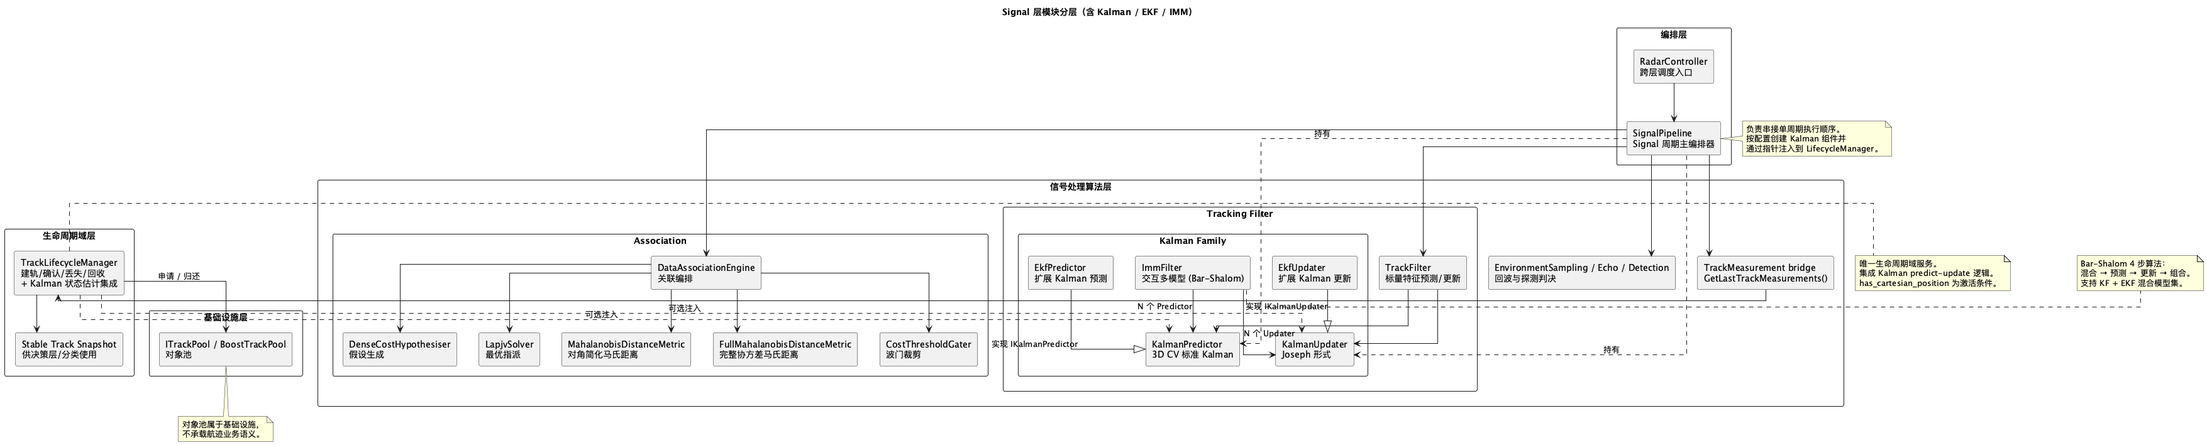
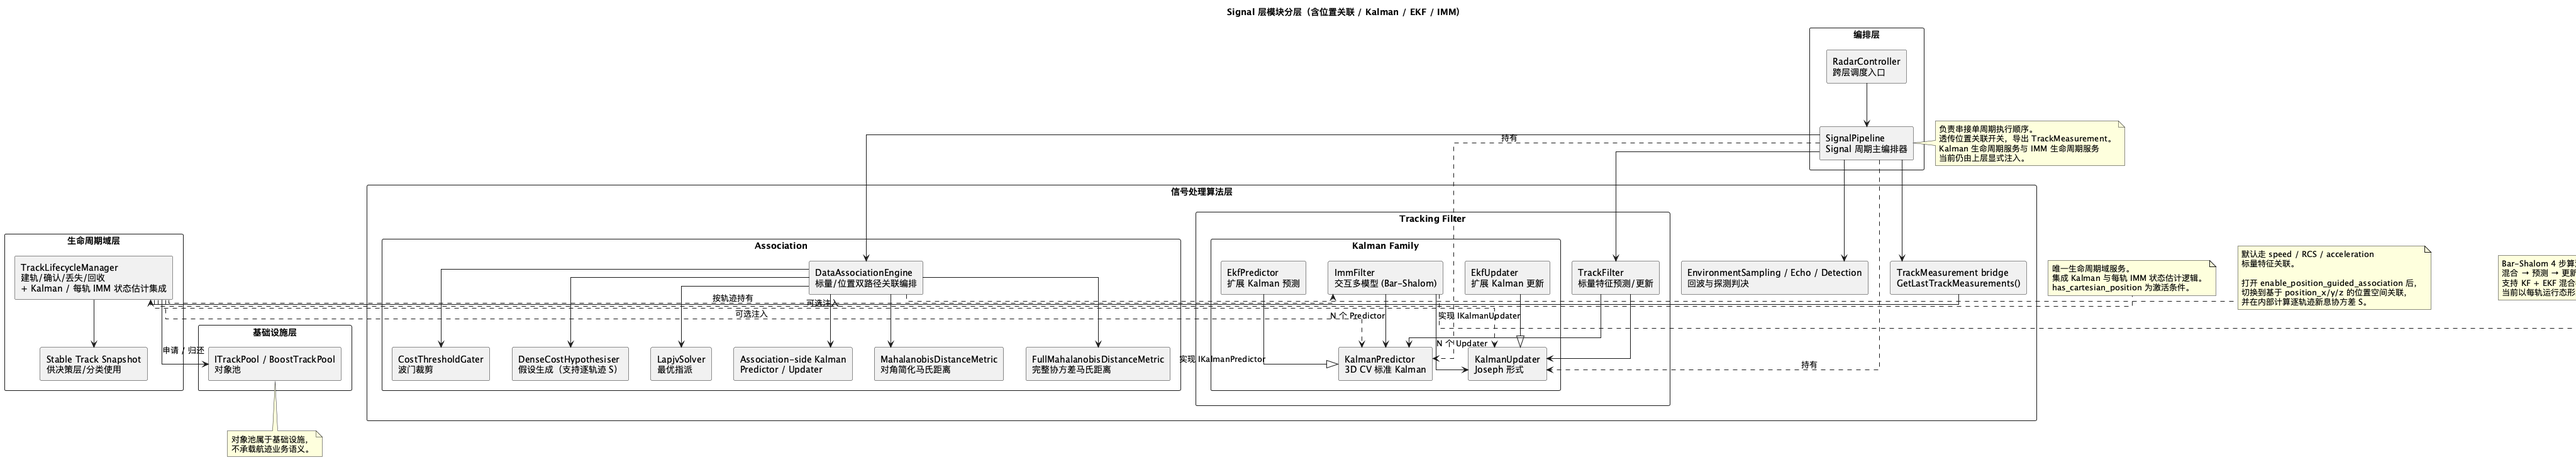
docs(architecture): 更新信号层位置关联与 IMM 集成文档
架构说明：
- signal-architecture.md 补充标量特征关联与位置空间关联双路径说明，明确 FullMahalanobisDistanceMetric 已支持逐轨迹新息协方差 S 联动
- 更新 Kalman / IMM 集成章节，说明 TrackLifecycleManager 已支持每轨 ImmFilter 运行态以及命中、失配、回收路径下的行为
- 同步测试覆盖统计、当前实现边界与待统一事项，区分“已实现能力”和“尚待收敛的数据流”

目录与图示：
- README.md 新增当前实现状态摘要，并补充位置关联、逐轨迹 S 注入点与每轨 IMM 生命周期入口说明
- 更新 signal-module-layering.puml，补充 Association-side Kalman、位置关联路径以及 TrackLifecycleManager 每轨 IMM 持有关系
- 更新 signal-processing-flow.puml，补充位置空间关联分支、TrackMeasurement 桥接语义和 LifecycleManager 内部 Kalman / IMM 状态估计流程

文档边界：
- 记录当前位置空间关联仍由 DataAssociationEngine 内部维护关联侧高斯状态
- 记录 TrackLifecycleManager 的 IMM 生命周期服务当前仍需由上层显式创建/注入
- 保留杂波图与动态门限环境适配为后续环境层协作项

diff --git a/doc/architecture/signal/signal-architecture.md b/doc/architecture/signal/signal-architecture.md
@@ -4,6 +4,13 @@
 
 Signal 层是机载雷达仿真系统的**信号处理核心**，负责从原始目标特征出发，完成完整的 **探测 → 关联 → 滤波 → 航迹管理** 处理链路。
 
+截至当前版本，Signal 层已经同时支持：
+
+- 基于 `[speed, rcs, acceleration]` 的**标量特征关联路径**（兼容旧实现）
+- 基于 `TargetFeature.position_x/y/z` 的**位置空间关联路径**（显式开关启用）
+- `TrackLifecycleManager` 内部的**单模型 Kalman**与**每轨 IMM 多模型运行态**
+- `FullMahalanobisDistanceMetric` 对轨迹级新息协方差 $S$ 的直接消费
+
 Signal 层遵循三条关键设计原则：
 
 1. **控制面与数据面分离** — 编排逻辑与算法实现通过接口隔离，Pipeline 节点只传递上下文、不直接耦合底层算法。
@@ -21,7 +28,7 @@ src/airborne_radar/signal/
 │   ├── Hypothesiser.h/.cpp         #   └─ DenseCostHypothesiser（假设生成）
 │   ├── AssignmentSolver.h          #   └─ IAssignmentSolver 接口
 │   ├── LapjvSolver.h/.cpp          #   └─ LapjvSolver（Jonker-Volgenant 最优指派）
-│   └── DataAssociation.h/.cpp      #   └─ DataAssociationEngine（关联编排器）
+│   └── DataAssociation.h/.cpp      #   └─ DataAssociationEngine（标量/位置双路径关联编排器）
 │
 ├── detection/                      # [信号检测层]
 │   ├── RadarEquations.h/.cpp       #   ├─ 雷达物理方程纯函数库（回波功率、噪声底、积累增益、测量精度、检测概率）
@@ -44,7 +51,7 @@ src/airborne_radar/signal/
     │                               #   └─ LinearCv / LinearPosition 默认模型
     ├── ImmFilter.h/.cpp            #   └─ ImmFilter（交互多模型滤波器，Bar-Shalom）
     ├── TrackFilter.h/.cpp          #   └─ TrackFilter（标量特征预测/更新编排）
-    ├── TrackLifecycleManager.h/.cpp #   └─ 轨迹生命周期状态机（Kalman 集成）
+    ├── TrackLifecycleManager.h/.cpp #   └─ 轨迹生命周期状态机（Kalman / 每轨 IMM 集成）
     ├── BoostTrackPool.h/.cpp       #   └─ 基于 Boost.Pool 的对象池
     └── ITrackPool.h                #   └─ 对象池抽象接口
 
@@ -55,7 +62,7 @@ include/1q/airborne_radar/signal/
     ├── GaussianTrackState.h         # 高斯状态类型定义（公共 API）
     ├── ITrackLifecycleManager.h     # 生命周期管理器接口
     ├── ITrackPool.h                 # 对象池接口
-    ├── TrackLifecycleManager.h      # 生命周期管理器（含 Kalman 注入）
+    ├── TrackLifecycleManager.h      # 生命周期管理器（含 Kalman / IMM 注入）
     └── TrackLifecycleTypes.h        # 轨迹数据类型定义
 ```
 
@@ -69,14 +76,15 @@ flowchart TD
     ECHO["回波计算<br/>SignalDetector"]
     DETECT["信号检测<br/>CFAR 探测判决"]
     ASSOC["数据关联<br/>DataAssociationEngine"]
-    FILTER["跟踪滤波<br/>TrackFilter + KalmanPredictor/Updater"]
+    ASSOC_DETAIL["可选：位置空间关联<br/>预测位置 + 量测位置 + S"]
+    FILTER["跟踪滤波<br/>TrackFilter（标量特征）"]
     MEAS["TrackMeasurement 导出<br/>GetLastTrackMeasurements()"]
     LIFECYCLE["轨迹管理<br/>TrackLifecycleManager"]
-    KALMAN["Kalman 状态估计<br/>Predict → Update → 写回"]
+    KFIMM["状态估计<br/>Kalman / 每轨 IMM"]
     SNAPSHOT["稳定航迹快照<br/>供决策层 / 目标分类"]
 
-    ENV --> ECHO --> DETECT --> ASSOC --> FILTER --> MEAS --> LIFECYCLE
-    LIFECYCLE --> KALMAN --> SNAPSHOT
+    ENV --> ECHO --> DETECT --> ASSOC --> FILTER --> MEAS --> LIFECYCLE --> KFIMM --> SNAPSHOT
+    ASSOC -.-> ASSOC_DETAIL
     LIFECYCLE -->|"申请/归还"| POOL["BoostTrackPool"]
 ```
 
@@ -89,7 +97,7 @@ flowchart TD
 EnvironmentSamplingStage
   → EchoEstimationStage          # 线性占位符公式
     → DetectionStage              # 简单 margin 比较
-      → AssociationStage
+            → AssociationStage          # 可选位置空间关联
         → TrackingFilterStage
 ```
 
@@ -97,11 +105,13 @@ EnvironmentSamplingStage
 ```
 EnvironmentSamplingStage
   → PhysicsEchoEstimationStage   # 雷达方程 + CFAR 检测概率 + 蒙特卡洛判决
-    → AssociationStage
+        → AssociationStage           # 可选位置空间关联
       → TrackingFilterStage
 ```
 
 每个 Stage 实现 `IChainProcessor<SignalCycleContext>` 接口，通过 `SignalCycleContext` 共享上下文数据。
+
+当前 `AssociationStage` 仍然是 Pipeline 链路中的单一节点；当打开 `enable_position_guided_association` 时，**位置预测与轨迹级新息协方差 $S$ 的生成发生在 `DataAssociationEngine` 内部**，而不是新增一个独立的前置 Stage。
 
 ## 4. 核心算法详解
 
@@ -148,23 +158,49 @@ flowchart LR
 ```mermaid
 flowchart LR
     subgraph DataAssociationEngine
+        MODE["模式选择<br/>标量特征 / 位置空间"]
+        PRED["内部预测<br/>KalmanPredictor + KalmanUpdater"]
         M["DistanceMetric<br/>马氏距离计算"] --> G["Gater<br/>波门裁剪"]
         G --> H["Hypothesiser<br/>候选假设生成"]
         H --> S["LapjvSolver<br/>最优指派"]
     end
-    INPUT["量测 + 历史轨迹签名"] --> M
+    INPUT["量测 + 历史轨迹签名"] --> MODE --> M
+    MODE -. 位置路径 .-> PRED -. 输出 ẑ / S .-> H
     S --> OUTPUT["AssociationResult"]
 ```
+
+`DataAssociationEngine` 当前有两条可切换路径：
+
+1. **标量特征路径（默认）**
+   - 输入特征：`[speed, rcs, acceleration]`
+   - 距离度量：`MahalanobisDistanceMetric`
+   - 作用：保持旧行为与现有调用方兼容
+
+2. **位置空间路径（`enable_position_guided_association = true`）**
+   - 量测来源：`TargetFeature.position_x / position_y / position_z`
+   - 历史轨迹状态：`TrackSignature.position + gaussian_state`
+   - 距离度量：`FullMahalanobisDistanceMetric`
+   - 协方差来源：内部 `KalmanPredictor` 预测得到 $P$，随后按
+     $$S = HPH^T + R$$
+     计算轨迹级新息协方差并传递给 `DenseCostHypothesiser`
 
 | 组件 | 算法 | 复杂度 |
 |------|------|--------|
 | `MahalanobisDistanceMetric` | d² = Σ(Δfᵢ/σᵢ)² （对角简化） | O(D) |
 | `FullMahalanobisDistanceMetric` | d² = Δzᵀ S⁻¹ Δz （LLT 分解） | O(D³) |
 | `CostThresholdGater` | 代价 > 阈值则裁剪 | O(MN) |
-| `DenseCostHypothesiser` | 生成所有通过波门的 (轨迹, 量测) 对 | O(MN) |
+| `DenseCostHypothesiser` | 生成所有通过波门的 (轨迹, 量测) 对；位置路径支持逐轨迹 S 注入 | O(MN) |
 | `LapjvSolver` | Jonker-Volgenant 线性指派 | O(N³) |
 
-### 4.2 状态估计滤波器
+#### 4.2.1 当前位置空间关联的实现边界
+
+当前版本已经完成 `FullMahalanobisDistanceMetric` 与轨迹级 $S$ 的联动，但需要注意：
+
+- 关联域维护的是**关联侧内部高斯状态**，尚未与 `TrackLifecycleManager` 的后验状态完全统一成单一真源
+- `SignalPipeline` 只有在输入 `TargetFeature` 已携带 `position_x/y/z` 时，才会导出 `has_cartesian_position = true` 的 `TrackMeasurement`
+- 因此当前位置空间关联已经可用，但仍属于**已实现的前向能力 + 待进一步统一的数据流**
+
+### 4.3 状态估计滤波器
 
 Signal 层提供三级滤波器，复杂度递增：
 
@@ -221,6 +257,14 @@ flowchart TD
 
 通过依赖注入接收 N 个 `IKalmanPredictor*` / `IKalmanUpdater*`，支持 KF + EKF 混合模型集。
 
+当前 `TrackLifecycleManager` 已支持**每轨一份 `ImmFilter` 运行态**：
+
+- 以 `association_key` 为键维护 `imm_filters_by_key_`
+- 新轨时初始化对应模型集合与初始权重
+- 命中时执行 `ImmFilter::Process()`
+- 失配时执行 `ImmFilter::Predict()`
+- 回收时同步清理该轨迹绑定的 IMM 运行态
+
 ## 5. 与 Stone Soup 的对照
 
 ### 5.1 概念映射
@@ -239,7 +283,7 @@ flowchart TD
 | `ExtendedKalmanUpdater` | `EkfUpdater` | 同上 |
 | `TransitionModel.jacobian()` | `ITransitionModel::Jacobian()` | 纯虚函数 |
 | `MeasurementModel.jacobian()` | `IMeasurementModel::Jacobian()` | 纯虚函数 |
-| `Tracker` (multi-model) | `ImmFilter` | Bar-Shalom 4 步算法 |
+| `Tracker` (multi-model) | `ImmFilter` + `TrackLifecycleManager` | `ImmFilter` 提供每轨多模型估计，Lifecycle 管理状态机与对象生命周期 |
 | `Initiator / Deleter` | `TrackLifecycleManager` | 合并为统一状态机 |
 
 ### 5.2 架构差异
@@ -282,9 +326,12 @@ classDiagram
     class DataAssociationEngine {
         +Associate(signatures, targets) AssociationResult
         -IDistanceMetric metric
+        -FullMahalanobisDistanceMetric full_metric
         -IGater gater
         -IHypothesiser hypothesiser
         -IAssignmentSolver solver
+        -KalmanPredictor association_predictor
+        -KalmanUpdater association_updater
     }
 
     class TrackLifecycleManager {
@@ -293,6 +340,7 @@ classDiagram
         +BuildFeatureSnapshot() TargetFeatureList
         -IKalmanPredictor* kalman_predictor
         -IKalmanUpdater* kalman_updater
+        -map~association_key, ImmFilter~ imm_filters_by_key
     }
 
     class IKalmanPredictor {
@@ -312,6 +360,7 @@ classDiagram
 
     ImmFilter o-- IKalmanPredictor : N 个模型
     ImmFilter o-- IKalmanUpdater : N 个模型
+    TrackLifecycleManager o-- ImmFilter : 每轨运行态
     TrackLifecycleManager o-- IKalmanPredictor : 可选注入
     TrackLifecycleManager o-- IKalmanUpdater : 可选注入
     SignalPipeline *-- DataAssociationEngine
@@ -319,9 +368,14 @@ classDiagram
     SignalPipeline *-- KalmanUpdater
 ```
 
-## 7. Kalman 集成机制
+## 7. Kalman / IMM 集成机制
 
-`TrackLifecycleManager` 通过构造函数可选注入 `IKalmanPredictor*` 和 `IKalmanUpdater*`：
+`TrackLifecycleManager` 当前支持两类状态估计接入方式：
+
+1. **单模型路径**：通过构造函数注入 `IKalmanPredictor*` 和 `IKalmanUpdater*`
+2. **多模型路径**：通过构造函数注入 `vector<IKalmanPredictor*>`、`vector<IKalmanUpdater*>` 以及转移矩阵/初始权重，按轨迹创建 `ImmFilter`
+
+### 7.1 单模型 Kalman 路径
 
 ```mermaid
 sequenceDiagram
@@ -356,16 +410,61 @@ sequenceDiagram
 - `kalman_predictor_` 和 `kalman_updater_` 均不为 `nullptr`
 - `measurement.has_cartesian_position == true`
 
+### 7.2 每轨 IMM 路径
+
+```mermaid
+sequenceDiagram
+    participant M as TrackMeasurement
+    participant L as TrackLifecycleManager
+    participant IMM as ImmFilter(按 association_key 维护)
+
+    M->>L: Update(cycle, measurements)
+
+    loop 每条量测
+        alt 新轨迹 + has_cartesian_position
+            L->>L: 构造初始 GaussianTrackState
+            L->>IMM: 创建该轨迹专属 ImmFilter
+            L->>L: 写回组合态到 TrackState
+        else 已有轨迹 + has_cartesian_position
+            L->>IMM: Process(z, dt)
+            IMM-->>L: combined_state
+            L->>L: 写回 position / velocity / gaussian_state
+        end
+    end
+
+    loop 未命中轨迹
+        L->>IMM: Predict(dt)
+        IMM-->>L: combined_state
+        L->>L: 写回外推状态
+    end
+```
+
+**激活条件**：
+- `imm_predictors_` 与 `imm_updaters_` 成对配置
+- `measurement.has_cartesian_position == true`
+
+### 7.3 关联侧 $S$ 联动机制
+
+`FullMahalanobisDistanceMetric` 的轨迹级 $S$ 联动当前由 `DataAssociationEngine` 内部完成：
+
+1. 根据 `TrackSignature.gaussian_state` 做位置预测
+2. 提取预测位置量测均值 $\hat{z} = [x, y, z]^T$
+3. 通过
+   $$S = HPH^T + R$$
+   计算该轨迹的新息协方差
+4. 将 `S` 逐轨迹注入 `DenseCostHypothesiser`
+5. 由 `FullMahalanobisDistanceMetric` 计算位置空间关联代价
+
 ## 8. 测试覆盖
 
 | 测试套件 | 测试数 | 覆盖范围 |
 |---------|--------|---------|
 | `SignalPipelineTest` | 3 | 端到端周期处理、探测裕量衰减、TrackMeasurement 导出 |
 | `TrackFilterTest` | 2 | 标量特征稳定传递、损耗衰减 + 干扰惩罚 |
-| `DataAssociationEngineTest` | 5 | 稳定关联、交叉匹配、新目标分配、匹配/失配报告 |
+| `DataAssociationEngineTest` | 6 | 稳定关联、交叉匹配、新目标分配、匹配/失配报告、位置空间关联 |
 | `CostThresholdGaterTest` | 1 | 超阈值裁剪 |
-| `DenseCostHypothesiserTest` | 1 | 仅输出波门内假设 |
-| `TrackLifecycleManagerTest` | 2 | 确认阈值、超时回收 |
+| `DenseCostHypothesiserTest` | 2 | 波门内假设、逐轨迹 S 注入 |
+| `TrackLifecycleManagerTest` | 3 | 确认阈值、超时回收、每轨 IMM 漏检预测 |
 | `KalmanPredictorTest` | 7 | 零步长恒等、位置传播、协方差增长、对称性、Q 矩阵公式 |
 | `KalmanUpdaterTest` | 8 | 协方差收缩、均值收敛、新息正确性、动态R矩阵自适应、正定性 |
 | `KalmanPredictUpdateTest` | 2 | 预测-更新集成、速度收敛 |
@@ -375,7 +474,7 @@ sequenceDiagram
 | `RadarEquationsTest` | 8 | 回波功率手算、R⁴规律、玻尔兹曼噪声、相参/非相参积累、测距/测角精度 |
 | `SignalDetectorTest` | 4 | 高/低 SNR 探测、确定性种子、干扰降级 |
 | `SwerlingDetectionTest` | 11| Swerling 0~4 边界、极限定理、多脉冲增益平滑对比 |
-| **合计** | **60+** | 单元测试合计 83 个绿灯 |
+| **合计** | **80+** | 当前单元测试合计 86 个绿灯 |
 
 ## 9. 当前状态与待完善事项
 
@@ -387,7 +486,9 @@ sequenceDiagram
 - EKF 扩展（虚函数接口）
 - IMM 多模型滤波器（Bar-Shalom 4 步）
 - `TrackLifecycleManager` 中的 Kalman 集成
+- `TrackLifecycleManager` 中的每轨 IMM 运行态集成
 - `SignalPipeline` 中 Kalman 组件的配置化创建
+- `SignalPipeline` 中位置空间关联开关透传与笛卡尔位置量测导出
 - 物理化信号检测（`RadarEquations` + `SignalDetector`）
   - 单站雷达方程回波功率计算（对数域）
   - 接收机热噪声功率底（kTBF）
@@ -400,9 +501,21 @@ sequenceDiagram
   - `SignalDetector` 极坐标物理误差 → 笛卡尔空间 R 矩阵转换（Jacobian 近似投影）
   - `TrackMeasurement` 加入动态协方差并外传给 LifecycleManager
   - `KalmanUpdater` 和 `EkfUpdater` 自适应更新 R 权重增益
+- 位置空间关联与轨迹级新息协方差联动
+    - `DataAssociationEngine` 支持位置空间关联模式
+    - `DenseCostHypothesiser` 支持逐轨迹新息协方差注入
+    - `FullMahalanobisDistanceMetric` 可直接消费轨迹级 $S$
 
 ### 待完善 🔲
 
-- IMM 集成到 `TrackLifecycleManager`（当前仅 KF 路径）
-- `FullMahalanobisDistanceMetric` 与 Kalman 新息协方差 S 的联动
+- 关联侧内部高斯状态与 `TrackLifecycleManager` 后验状态统一为单一真源
+- 将动态量测协方差 `measurement_covariance` 直接接入位置空间关联的 $S$ 计算
+- `SignalPipeline` / `RadarController` 层面对 IMM 生命周期服务的自动装配
 - 杂波图与动态门限环境适配机制
+
+### 当前已知限制 ⚠
+
+- 位置空间关联是**显式开关功能**，默认仍走旧的标量特征关联路径
+- 位置空间关联当前要求输入 `TargetFeature` 已提供 `position_x / position_y / position_z`
+- 关联侧和生命周期侧仍各自维护高斯状态，尚未完成统一状态源收敛
+- `SignalPipeline` 当前只负责导出位置量测与位置关联配置；`TrackLifecycleManager` 的 IMM 实例化仍由上层显式创建/注入

diff --git a/doc/architecture/signal/README.md b/doc/architecture/signal/README.md
@@ -2,6 +2,13 @@
 
 Signal 层是机载雷达仿真系统的信号处理核心，负责 **探测 → 关联 → 滤波 → 航迹管理** 完整链路。
 
+当前文档已同步到以下实现状态：
+
+- 标量特征关联与位置空间关联双路径并存
+- `FullMahalanobisDistanceMetric` 支持逐轨迹新息协方差 $S$ 联动
+- `TrackLifecycleManager` 已支持每轨 IMM 运行态
+- 文档明确区分“已实现能力”和“尚待统一的数据流边界”
+
 ## 文件说明
 
 | 文件 | 说明 |
@@ -20,18 +27,20 @@ Signal 层是机载雷达仿真系统的信号处理核心，负责 **探测 →
 4. 需要落代码时，回到源码核对以下入口：
    - `SignalPipeline` — 周期编排
    - `DataAssociationEngine` — 关联编排
+   - `DenseCostHypothesiser` — 逐轨迹 S 注入点
    - `KalmanPredictor / KalmanUpdater` — 标准 Kalman
    - `EkfPredictor / EkfUpdater` — 扩展 Kalman
    - `ImmFilter` — 交互多模型
-   - `TrackLifecycleManager` — 轨迹生命周期 + Kalman 集成
+   - `TrackLifecycleManager` — 轨迹生命周期 + Kalman / 每轨 IMM 集成
 
 ## 算法层级
 
 ```
 Level 0: TrackFilter（标量特征的最小预测/更新）
-Level 1: KalmanPredictor + KalmanUpdater（标准线性 Kalman，3D CV）
-Level 2: EkfPredictor + EkfUpdater（扩展 Kalman，非线性模型支持）
-Level 3: ImmFilter（交互多模型，Bar-Shalom 4 步算法）
+Level 1: DataAssociationEngine（标量/位置双路径关联，位置路径支持轨迹级 S）
+Level 2: KalmanPredictor + KalmanUpdater（标准线性 Kalman，3D CV）
+Level 3: EkfPredictor + EkfUpdater（扩展 Kalman，非线性模型支持）
+Level 4: ImmFilter（交互多模型，Bar-Shalom 4 步算法）
 ```
 
 ## 流程图预览
